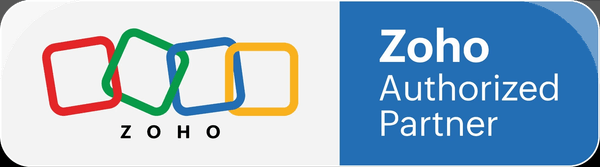
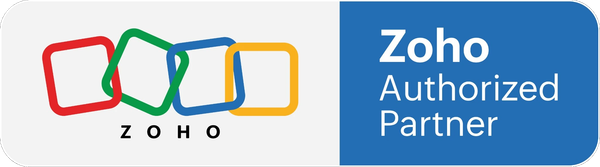
Fix Zoho badge transparency artifacts; strengthen technical SEO
- Rebuild the Zoho Authorized Partner badge's background removal from
  scratch: the previous version had visible dark fringing on light
  backgrounds and a striping artifact on the rounded corners (caused
  by naive alpha decontamination amplifying edge noise, plus a lossy
  palette/dithering step during compression). New version uses
  geometric (color-independent) antialiasing with color-bled edges
  and ships as a true-color PNG, verified clean against white, dark,
  and the site's actual hero/footer backgrounds.
- Trim homepage <title> (78 -> 63 chars) and meta description
  (186 -> 149 chars) to fit within typical search-result truncation
  limits.
- Sitemap: add <lastmod>/<changefreq>/<priority> per URL (blog posts
  use their real publish date) instead of bare <loc> entries.
- Structured data: add OpeningHoursSpecification, knowsLanguage
  (en/ar), and a hasMap Google Maps link to the ProfessionalService
  schema.
- Add a "Get Directions" Google Maps link on the Contact page.
- Add meta robots, og:site_name, og:locale, and twitter:site tags.

Claude-Session: https://claude.ai/code/session_01B7SE1Kh5bs1vjsaDB2WvsF

diff --git a/generator/build.js b/generator/build.js
@@ -58,8 +58,8 @@ function build() {
 
   // Home
   emit("index.html", {
-    title: "Zoho Partner Lebanon | CRM, Accounting, HR & ERP Software in Beirut | CSP4TECH",
-    description: `${config.siteName} is a Zoho Authorized Partner in Beirut, Lebanon — CRM, accounting, HR & payroll, inventory, and custom-app implementation, migration & support for Lebanese SMEs and enterprises.`,
+    title: "Zoho Partner Lebanon | CRM, Accounting & HR Software | CSP4TECH",
+    description: "Zoho Authorized Partner in Beirut, Lebanon. CRM, accounting, HR, and inventory implementation, migration & support for Lebanese SMEs and enterprises.",
     path: "/",
     bodyHtml: homeTpl(products, blogPosts),
     extraHead: faqSchema(faq),
@@ -165,15 +165,39 @@ function build() {
     })
   );
 
-  // sitemap.xml
-  const urls = [
-    "/", "/about.html", "/contact-us.html", "/services.html", "/zoho-suites.html", "/zoho-products/", "/blog/",
-    ...products.map((p) => `/zoho-products/${p.slug}.html`),
-    ...blogPosts.map((b) => `/blog/${b.slug}.html`),
-  ];
+  // sitemap.xml — lastmod/changefreq/priority so crawlers can prioritize and
+  // detect freshness rather than treating every URL identically.
+  const buildDate = new Date().toISOString().slice(0, 10);
+  const staticUrls = [
+    { loc: "/", changefreq: "weekly", priority: "1.0" },
+    { loc: "/about.html", changefreq: "monthly", priority: "0.7" },
+    { loc: "/contact-us.html", changefreq: "monthly", priority: "0.8" },
+    { loc: "/services.html", changefreq: "monthly", priority: "0.9" },
+    { loc: "/zoho-suites.html", changefreq: "monthly", priority: "0.7" },
+    { loc: "/zoho-products/", changefreq: "weekly", priority: "0.9" },
+    { loc: "/blog/", changefreq: "weekly", priority: "0.8" },
+  ].map((u) => ({ ...u, lastmod: buildDate }));
+  const productUrls = products.map((p) => ({
+    loc: `/zoho-products/${p.slug}.html`,
+    lastmod: buildDate,
+    changefreq: "monthly",
+    priority: "0.8",
+  }));
+  const blogUrls = blogPosts.map((b) => ({
+    loc: `/blog/${b.slug}.html`,
+    lastmod: new Date(b.date).toISOString().slice(0, 10),
+    changefreq: "yearly",
+    priority: "0.6",
+  }));
+  const allUrls = [...staticUrls, ...productUrls, ...blogUrls];
   const sitemap = `<?xml version="1.0" encoding="UTF-8"?>
 <urlset xmlns="http://www.sitemaps.org/schemas/sitemap/0.9">
-${urls.map((u) => `  <url><loc>${config.domain}${u}</loc></url>`).join("\n")}
+${allUrls
+  .map(
+    (u) =>
+      `  <url><loc>${config.domain}${u.loc}</loc><lastmod>${u.lastmod}</lastmod><changefreq>${u.changefreq}</changefreq><priority>${u.priority}</priority></url>`
+  )
+  .join("\n")}
 </urlset>`;
   write("sitemap.xml", sitemap);
 

diff --git a/generator/templates/schema.js b/generator/templates/schema.js
@@ -3,6 +3,7 @@ const config = require("../data/config");
 // Convert "Mon–Sat, 9:00 AM – 6:00 PM (Beirut)" into schema.org's "Mo-Sa 09:00-18:00" shape.
 // Kept as a plain constant here (rather than parsed) so it stays obviously correct/edit-able.
 const OPENING_HOURS = "Mo-Sa 09:00-18:00";
+const FULL_ADDRESS = `${config.siteName}, Beirut Digital District, Block 1499, Floor 1, Beirut, Lebanon`;
 
 function ld(obj) {
   return `<script type="application/ld+json">${JSON.stringify(obj)}</script>`;
@@ -27,7 +28,15 @@ function organizationSchema() {
       addressCountry: "LB",
     },
     areaServed: "Lebanon",
+    knowsLanguage: ["en", "ar"],
     openingHours: OPENING_HOURS,
+    openingHoursSpecification: {
+      "@type": "OpeningHoursSpecification",
+      dayOfWeek: ["Monday", "Tuesday", "Wednesday", "Thursday", "Friday", "Saturday"],
+      opens: "09:00",
+      closes: "18:00",
+    },
+    hasMap: `https://www.google.com/maps/search/?api=1&query=${encodeURIComponent(FULL_ADDRESS)}`,
     sameAs: Object.values(config.social),
   });
 }

diff --git a/generator/templates/layout.js b/generator/templates/layout.js
@@ -152,12 +152,16 @@ function page({ title, description, path, bodyHtml, products, extraHead = "" }) 
 <meta name="description" content="${description}">
 <link rel="canonical" href="${config.domain}${path}">
 <link rel="icon" href="/images/logo-mark.png" type="image/png">
+<meta name="robots" content="index, follow">
+<meta property="og:site_name" content="${config.siteName}">
+<meta property="og:locale" content="en_US">
 <meta property="og:title" content="${title}">
 <meta property="og:description" content="${description}">
 <meta property="og:type" content="website">
 <meta property="og:url" content="${config.domain}${path}">
 <meta property="og:image" content="${config.domain}/images/og-banner.jpg">
 <meta name="twitter:card" content="summary_large_image">
+<meta name="twitter:site" content="@csp4tech">
 <meta name="twitter:image" content="${config.domain}/images/og-banner.jpg">
 <link rel="preconnect" href="https://fonts.googleapis.com">
 <link rel="preconnect" href="https://fonts.gstatic.com" crossorigin>

diff --git a/generator/templates/contact.js b/generator/templates/contact.js
@@ -58,6 +58,7 @@ module.exports = function contact() {
           <div class="office-card">
             <h4>Beirut, Lebanon — Head Office</h4>
             <p style="font-size:.9rem;">${config.address.lebanon}</p>
+            <a href="https://www.google.com/maps/search/?api=1&query=${encodeURIComponent(`${config.siteName}, ${config.address.lebanon}`)}" target="_blank" rel="noopener" class="btn btn-ghost btn-sm" style="margin-top:12px;">Get Directions</a>
           </div>
         </div>
       </div>
